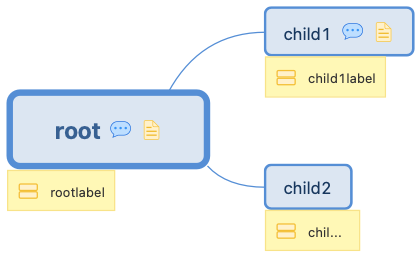
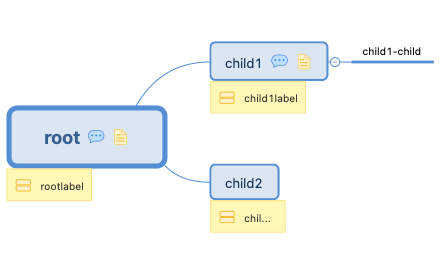
Update

diff --git a/example/main.go b/example/main.go
@@ -2,13 +2,13 @@ package main
 
 import (
 	"encoding/json"
-	"example/xmind/v2"
+	"example/xmind/v1"
 	"fmt"
 )
 
 func main() {
-	f := "xmindnew/xmindnew.xmind"
-	tree := v2.Parse(f)
+	f := "xmindold/xmind_old.xmind"
+	tree := v1.Parse(f)
 	empJSON, _ := json.MarshalIndent(tree, "", "  ")
 	fmt.Printf("MarshalIndent funnction output \n%s\n", string(empJSON))
 }

diff --git a/README.md b/README.md
@@ -12,7 +12,7 @@ empJSON, _ := json.MarshalIndent(tree, "", "  ")
 fmt.Printf("MarshalIndent funnction output \n%s\n", string(empJSON))
 ```
 ### output
-```bigquery
+```json
 MarshalIndent funnction output 
 {
   "XMLName": {
@@ -45,7 +45,20 @@ MarshalIndent funnction output
           "Note": "child1beizhu",
           "Label": "child1label",
           "Html": "",
-          "Children": null
+          "Children": [
+            {
+              "XMLName": {
+                "Space": "urn:xmind:xmap:xmlns:content:2.0",
+                "Local": "topic"
+              },
+              "ID": "7e83o4t5gtf6m402b8ducsltou",
+              "Name": "child1-child",
+              "Note": "",
+              "Label": "",
+              "Html": "",
+              "Children": null
+            }
+          ]
         },
         {
           "XMLName": {
@@ -63,6 +76,7 @@ MarshalIndent funnction output
     }
   }
 }
+
 ```
 
 ## Parse new version xmind
@@ -75,7 +89,7 @@ empJSON, _ := json.MarshalIndent(tree, "", "  ")
 fmt.Printf("MarshalIndent funnction output \n%s\n", string(empJSON))
 ```
 ### output
-```bigquery
+```json
 [
   {
     "id": "fbcb9e4ec339a9efe589c81a5c",
@@ -158,5 +172,4 @@ fmt.Printf("MarshalIndent funnction output \n%s\n", string(empJSON))
     "topicPositioning": "fixed"
   }
 ]
-
 ```
